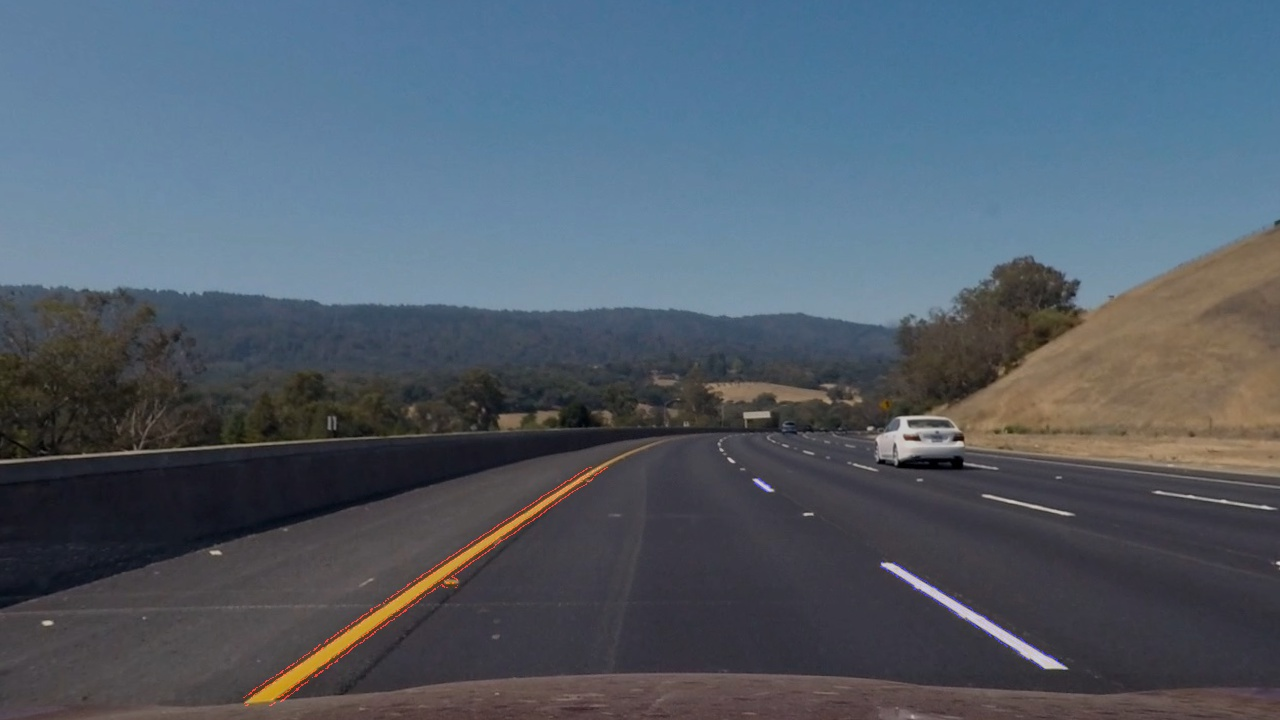
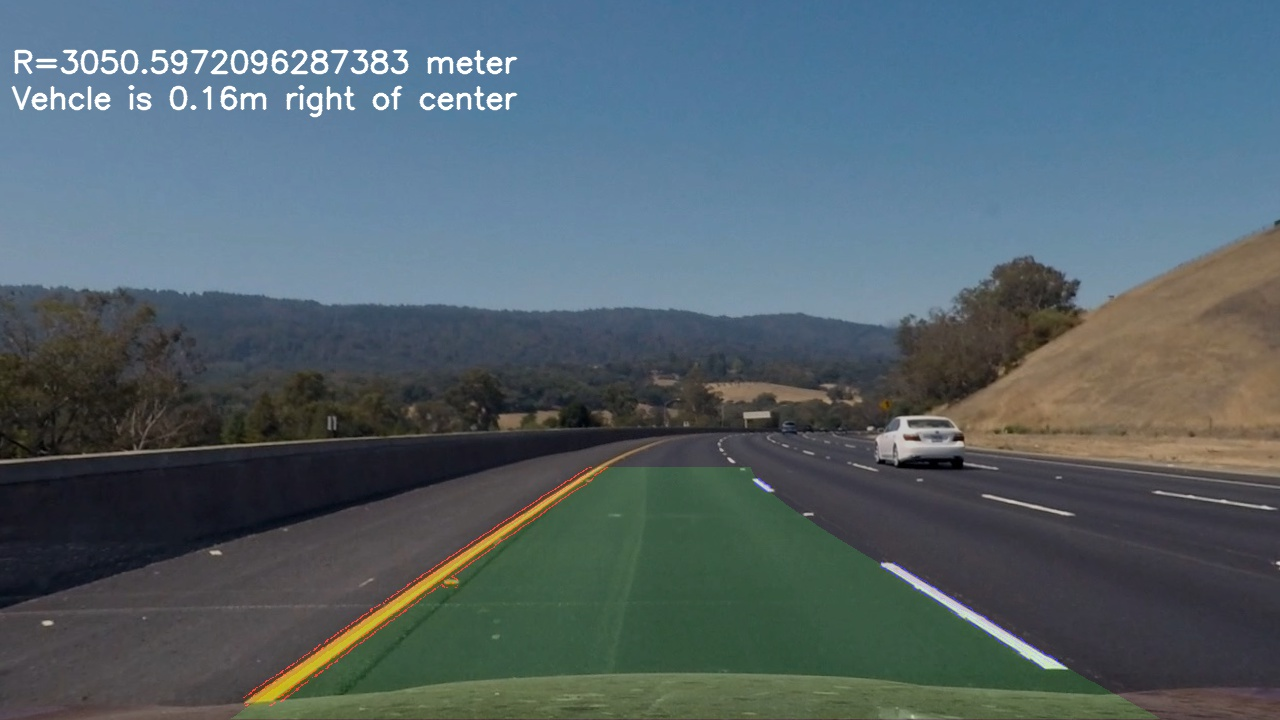
Signed-off-by: yujika <yuji@kawamura3.net>

Changed region(s): [[0.1875, 0.6417, 0.9062, 1.0], [0.0, 0.0611, 0.4062, 0.1528]]

diff --git a/my_work/find_lane.py b/my_work/find_lane.py
@@ -87,6 +87,8 @@ for image_file in test_file_name:
  #   plt.imshow(image)
  #   plt.show()
     
+    # Is it better to normalize?
+     
     # Choose a Sobel kernel size
     ksize = 9 # Choose a larger odd number to smooth gradient measurements
     # Apply each of the thresholding functions
@@ -148,6 +150,15 @@ for image_file in test_file_name:
     plt.savefig('../output_images/' + 'color_fit_lines_' + base_fn + '.jpg')
     plt.show()
     
+    color_with_lane_region = np.zeros( bird_view.shape + ( 3, ), dtype=np.int32 )
+    poly = np.vstack( ( np.array([left_fitx,ploty],dtype=np.int32).T , np.array([right_fitx,ploty],dtype=np.int32).T[::-1] ) )
+    color_with_lane_region = cv2.fillPoly( color_with_lane_region, [poly] , color=[0,32,0])
+    color_with_lane_region[lefty,leftx] = [255, 0, 0]
+    color_with_lane_region[righty,rightx] = [0, 0, 255 ]
+    plt.imshow(color_with_lane_region)
+    plt.savefig('../output_images/' + 'color_with_lane_region_' + base_fn + '.jpg')
+    plt.show()
+    
     
     quadratic_coeff = 3e-4 # arbitrary quadratic coefficient
 
@@ -162,21 +173,33 @@ for image_file in test_file_name:
     #left_curverad, right_curverad = util.measure_curvature_pixels(left_fitx, right_fitx, ploty )
     left_curverad, right_curverad = util.measure_curvature_real(left_fit_cr, right_fit_cr, ploty, xm_per_pix, ym_per_pix )
     print(left_curverad, right_curverad )
+    curverad = np.mean( [left_curverad, right_curverad])
     
     center = left_fit_in[0] + (right_fit_in[0] - left_fit_in[0])/2
     camera_center_pix = bird_view.shape[1]/2
     if ( center == camera_center_pix):
-        print("CENTER")
+        car_position_string = "CENTER"
     elif ( center < camera_center_pix):
         diff = (camera_center_pix - center)*xm_per_pix
-        print("Vehcle is {:.2f}m left of center".format(diff))
+        car_position_string = "Vehcle is {:.2f}m left of center".format(diff)
     else:
         diff = (center - camera_center_pix)*xm_per_pix
-        print("Vehcle is {:.2f}m right of center".format(diff))
+        car_position_string = "Vehcle is {:.2f}m right of center".format(diff)
+    print(car_position_string)
     
     #Warp the detected lane boundaries back onto the original image.
-    camera_view = util.warper(color_fit_lines, dst_points, src_points )
+    camera_view = util.warper(color_with_lane_region, dst_points, src_points )
     img_overlayed = util.weighted_img(camera_view.astype(np.uint8), image_undistort )
+    
+    font = cv2.FONT_HERSHEY_SIMPLEX
+    x_start = int(img_overlayed.shape[1]/100)
+    y_start = int(img_overlayed.shape[0]/10)
+    y_inc = int(img_overlayed.shape[0]/20)
+    font_size = 1.0
+    cv2.putText(img_overlayed,'R={:} meter'.format(curverad),(x_start,y_start), font, font_size, (255,255,255), 2, cv2.LINE_AA)
+    cv2.putText(img_overlayed,car_position_string,(x_start,y_start+y_inc*1), font, font_size, (255,255,255), 2, cv2.LINE_AA)
+    
+    
     plt.imshow(img_overlayed)
     plt.show()
     plt.imsave('../output_images/' + 'output_' + base_fn + '.jpg', img_overlayed )
